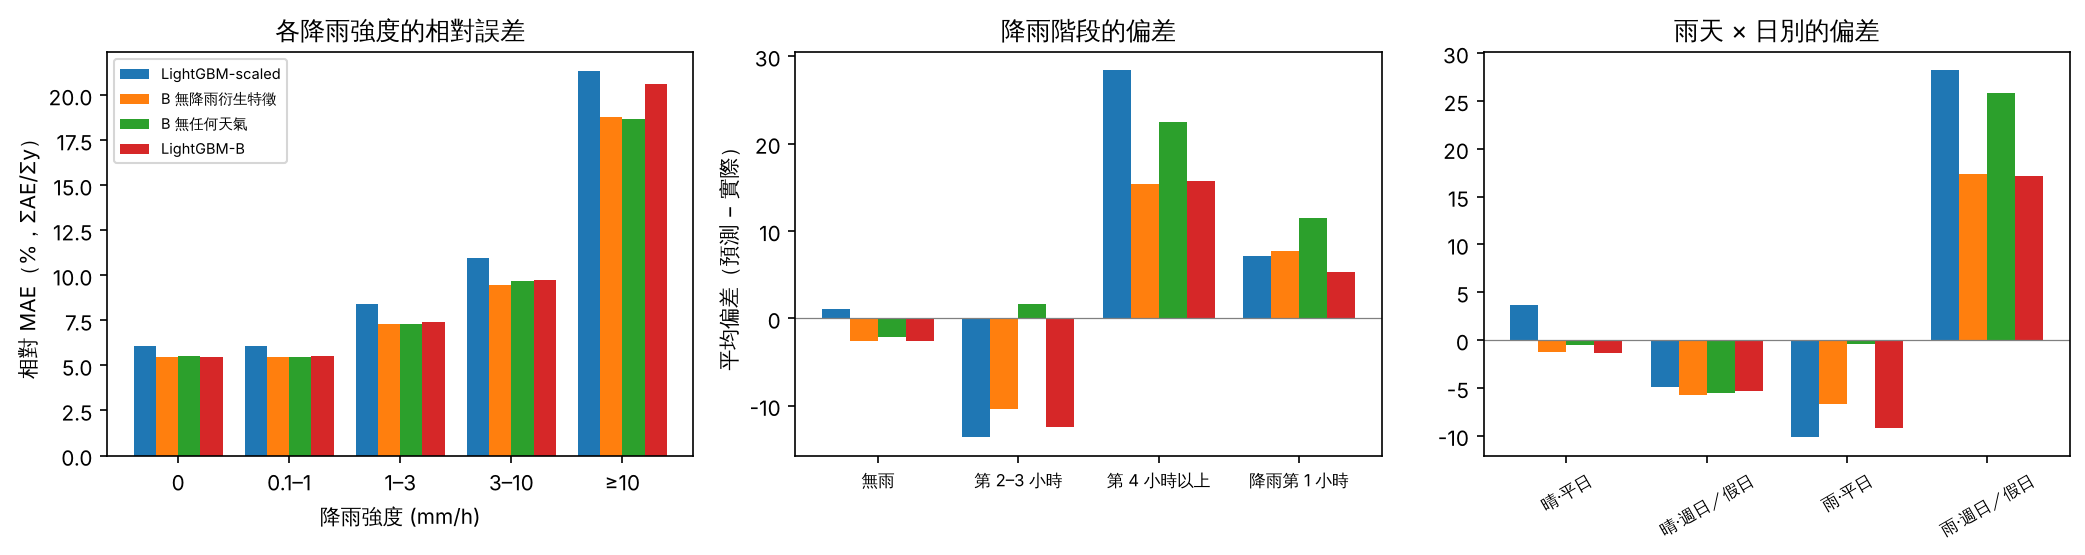
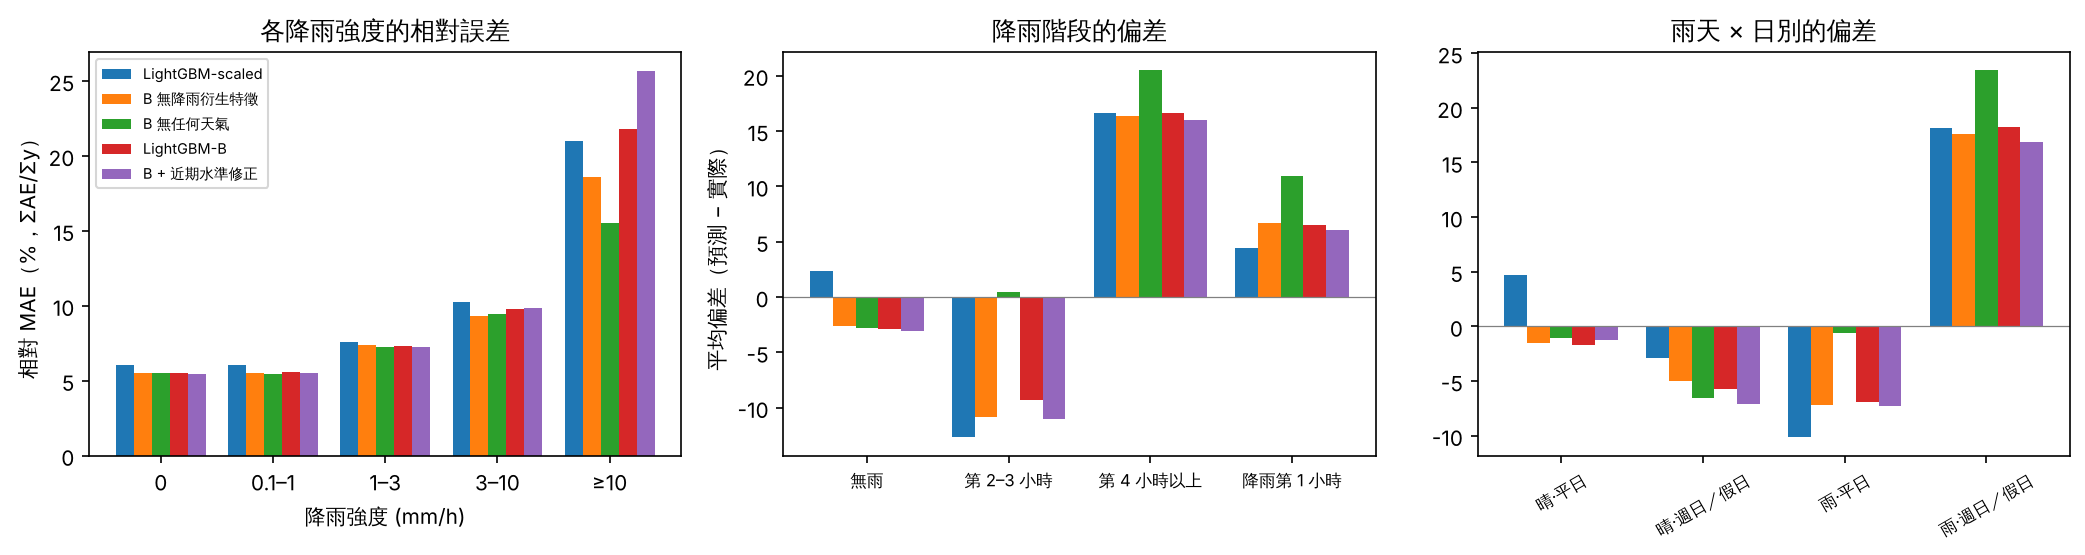
B: SHAP outputs and rain tables (interim, rerun pending)

diff --git a/results/reg_rain_tables.md b/results/reg_rain_tables.md
@@ -6,80 +6,80 @@
 
 ## 雨天 vs 無雨（2026-08~09）
 
-| rain | n | mean_y | MAE_LightGBM-scaled | bias_LightGBM-scaled | relMAE%_LightGBM-scaled | MAE_B 無降雨衍生特徵 | bias_B 無降雨衍生特徵 | relMAE%_B 無降雨衍生特徵 | MAE_B 無任何天氣 | bias_B 無任何天氣 | relMAE%_B 無任何天氣 | MAE_LightGBM-B | bias_LightGBM-B | relMAE%_LightGBM-B |
-|---|---|---|---|---|---|---|---|---|---|---|---|---|---|---|
-| False | 163602.00 | 712.21 | 43.26 | 1.02 | 6.07 | 38.78 | -2.64 | 5.44 | 39.00 | -2.09 | 5.48 | 39.11 | -2.58 | 5.49 |
-| True | 15006.00 | 811.38 | 72.10 | 9.19 | 8.89 | 62.58 | 5.43 | 7.71 | 62.91 | 12.81 | 7.75 | 63.94 | 4.13 | 7.88 |
+| rain | n | mean_y | MAE_LightGBM-scaled | bias_LightGBM-scaled | relMAE%_LightGBM-scaled | MAE_B 無降雨衍生特徵 | bias_B 無降雨衍生特徵 | relMAE%_B 無降雨衍生特徵 | MAE_B 無任何天氣 | bias_B 無任何天氣 | relMAE%_B 無任何天氣 | MAE_LightGBM-B | bias_LightGBM-B | relMAE%_LightGBM-B | MAE_B + 近期水準修正 | bias_B + 近期水準修正 | relMAE%_B + 近期水準修正 |
+|---|---|---|---|---|---|---|---|---|---|---|---|---|---|---|---|---|---|
+| False | 163602.00 | 712.21 | 42.90 | 2.35 | 6.02 | 39.13 | -2.64 | 5.49 | 38.86 | -2.76 | 5.46 | 39.37 | -2.93 | 5.53 | 38.80 | -3.08 | 5.45 |
+| True | 15006.00 | 811.38 | 66.10 | 4.13 | 8.15 | 62.77 | 5.31 | 7.74 | 62.04 | 11.53 | 7.65 | 63.57 | 5.79 | 7.83 | 63.38 | 4.91 | 7.81 |
 
 ## 雨天 vs 無雨（僅測試集 2026-09）
 
-| rain | n | mean_y | MAE_LightGBM-scaled | bias_LightGBM-scaled | relMAE%_LightGBM-scaled | MAE_B 無降雨衍生特徵 | bias_B 無降雨衍生特徵 | relMAE%_B 無降雨衍生特徵 | MAE_B 無任何天氣 | bias_B 無任何天氣 | relMAE%_B 無任何天氣 | MAE_LightGBM-B | bias_LightGBM-B | relMAE%_LightGBM-B |
-|---|---|---|---|---|---|---|---|---|---|---|---|---|---|---|
-| False | 83448.00 | 718.16 | 41.46 | 1.53 | 5.77 | 37.87 | -3.73 | 5.27 | 38.33 | -1.53 | 5.34 | 38.22 | -3.19 | 5.32 |
-| True | 4392.00 | 928.09 | 65.32 | 5.78 | 7.04 | 60.86 | -0.16 | 6.56 | 63.66 | 10.43 | 6.86 | 62.26 | -0.03 | 6.71 |
+| rain | n | mean_y | MAE_LightGBM-scaled | bias_LightGBM-scaled | relMAE%_LightGBM-scaled | MAE_B 無降雨衍生特徵 | bias_B 無降雨衍生特徵 | relMAE%_B 無降雨衍生特徵 | MAE_B 無任何天氣 | bias_B 無任何天氣 | relMAE%_B 無任何天氣 | MAE_LightGBM-B | bias_LightGBM-B | relMAE%_LightGBM-B | MAE_B + 近期水準修正 | bias_B + 近期水準修正 | relMAE%_B + 近期水準修正 |
+|---|---|---|---|---|---|---|---|---|---|---|---|---|---|---|---|---|---|
+| False | 83448.00 | 718.16 | 41.21 | 3.24 | 5.74 | 38.29 | -3.56 | 5.33 | 38.18 | -1.37 | 5.32 | 38.54 | -4.14 | 5.37 | 37.91 | -4.05 | 5.28 |
+| True | 4392.00 | 928.09 | 63.84 | -5.47 | 6.88 | 63.07 | 1.05 | 6.80 | 63.59 | 11.72 | 6.85 | 63.64 | -1.43 | 6.86 | 60.36 | -3.67 | 6.50 |
 
 ## 依降雨強度（mm/h）
 
-| intensity | n | mean_y | MAE_LightGBM-scaled | bias_LightGBM-scaled | relMAE%_LightGBM-scaled | MAE_B 無降雨衍生特徵 | bias_B 無降雨衍生特徵 | relMAE%_B 無降雨衍生特徵 | MAE_B 無任何天氣 | bias_B 無任何天氣 | relMAE%_B 無任何天氣 | MAE_LightGBM-B | bias_LightGBM-B | relMAE%_LightGBM-B |
-|---|---|---|---|---|---|---|---|---|---|---|---|---|---|---|
-| 0 | 116998.00 | 664.81 | 40.42 | 1.58 | 6.08 | 36.24 | -3.06 | 5.45 | 36.60 | -2.98 | 5.51 | 36.53 | -2.74 | 5.50 |
-| 0.1–1 | 48068.00 | 829.37 | 50.64 | -0.47 | 6.11 | 45.33 | -1.43 | 5.47 | 45.19 | 0.37 | 5.45 | 45.84 | -2.25 | 5.53 |
-| 1–3 | 9516.00 | 905.42 | 75.95 | 5.65 | 8.39 | 66.06 | 1.70 | 7.30 | 66.07 | 9.73 | 7.30 | 66.94 | 0.86 | 7.39 |
-| 3–10 | 3782.00 | 627.15 | 68.86 | 20.27 | 10.98 | 59.34 | 12.73 | 9.46 | 60.87 | 20.17 | 9.71 | 61.18 | 12.91 | 9.76 |
-| ≥10 | 244.00 | 242.71 | 51.80 | 49.53 | 21.34 | 45.60 | 44.35 | 18.79 | 45.31 | 44.46 | 18.67 | 50.10 | 49.63 | 20.64 |
+| intensity | n | mean_y | MAE_LightGBM-scaled | bias_LightGBM-scaled | relMAE%_LightGBM-scaled | MAE_B 無降雨衍生特徵 | bias_B 無降雨衍生特徵 | relMAE%_B 無降雨衍生特徵 | MAE_B 無任何天氣 | bias_B 無任何天氣 | relMAE%_B 無任何天氣 | MAE_LightGBM-B | bias_LightGBM-B | relMAE%_LightGBM-B | MAE_B + 近期水準修正 | bias_B + 近期水準修正 | relMAE%_B + 近期水準修正 |
+|---|---|---|---|---|---|---|---|---|---|---|---|---|---|---|---|---|---|
+| 0 | 116998.00 | 664.81 | 40.19 | 2.83 | 6.05 | 36.53 | -3.02 | 5.49 | 36.50 | -3.85 | 5.49 | 36.68 | -3.23 | 5.52 | 36.09 | -3.29 | 5.43 |
+| 0.1–1 | 48068.00 | 829.37 | 49.91 | 1.24 | 6.02 | 45.87 | -1.63 | 5.53 | 44.92 | 0.22 | 5.42 | 46.34 | -2.17 | 5.59 | 45.88 | -2.45 | 5.53 |
+| 1–3 | 9516.00 | 905.42 | 68.68 | -0.89 | 7.59 | 66.59 | 2.60 | 7.35 | 65.56 | 8.61 | 7.24 | 66.35 | 2.14 | 7.33 | 65.42 | 0.32 | 7.23 |
+| 3–10 | 3782.00 | 627.15 | 64.41 | 13.97 | 10.27 | 58.40 | 11.64 | 9.31 | 59.38 | 18.89 | 9.47 | 61.32 | 14.70 | 9.78 | 61.70 | 14.16 | 9.84 |
+| ≥10 | 244.00 | 242.71 | 50.87 | 50.06 | 20.96 | 45.07 | 44.36 | 18.57 | 37.60 | 29.24 | 15.49 | 52.92 | 52.33 | 21.80 | 62.30 | 62.16 | 25.67 |
 
 ## 依日別
 
-| rain | dtn | n | mean_y | MAE_LightGBM-scaled | bias_LightGBM-scaled | relMAE%_LightGBM-scaled | MAE_B 無降雨衍生特徵 | bias_B 無降雨衍生特徵 | relMAE%_B 無降雨衍生特徵 | MAE_B 無任何天氣 | bias_B 無任何天氣 | relMAE%_B 無任何天氣 | MAE_LightGBM-B | bias_LightGBM-B | relMAE%_LightGBM-B |
-|---|---|---|---|---|---|---|---|---|---|---|---|---|---|---|---|
-| False | 平日 | 112606.00 | 766.83 | 41.27 | 3.69 | 5.38 | 36.99 | -1.25 | 4.82 | 37.03 | -0.53 | 4.83 | 37.23 | -1.32 | 4.86 |
-| False | 週日／假日 | 50996.00 | 591.59 | 47.65 | -4.90 | 8.05 | 42.73 | -5.72 | 7.22 | 43.34 | -5.54 | 7.33 | 43.27 | -5.37 | 7.31 |
-| True | 平日 | 7442.00 | 962.92 | 73.63 | -10.15 | 7.65 | 67.34 | -6.71 | 6.99 | 65.70 | -0.39 | 6.82 | 69.22 | -9.15 | 7.19 |
-| True | 週日／假日 | 7564.00 | 662.29 | 70.59 | 28.23 | 10.66 | 57.89 | 17.38 | 8.74 | 60.16 | 25.80 | 9.08 | 58.74 | 17.20 | 8.87 |
+| rain | dtn | n | mean_y | MAE_LightGBM-scaled | bias_LightGBM-scaled | relMAE%_LightGBM-scaled | MAE_B 無降雨衍生特徵 | bias_B 無降雨衍生特徵 | relMAE%_B 無降雨衍生特徵 | MAE_B 無任何天氣 | bias_B 無任何天氣 | relMAE%_B 無任何天氣 | MAE_LightGBM-B | bias_LightGBM-B | relMAE%_LightGBM-B | MAE_B + 近期水準修正 | bias_B + 近期水準修正 | relMAE%_B + 近期水準修正 |
+|---|---|---|---|---|---|---|---|---|---|---|---|---|---|---|---|---|---|---|
+| False | 平日 | 112606.00 | 766.83 | 41.28 | 4.74 | 5.38 | 37.31 | -1.55 | 4.87 | 36.88 | -1.03 | 4.81 | 37.62 | -1.66 | 4.91 | 36.81 | -1.25 | 4.80 |
+| False | 週日／假日 | 50996.00 | 591.59 | 46.49 | -2.93 | 7.86 | 43.15 | -5.04 | 7.29 | 43.21 | -6.58 | 7.30 | 43.24 | -5.74 | 7.31 | 43.20 | -7.13 | 7.30 |
+| True | 平日 | 7442.00 | 962.92 | 72.03 | -10.14 | 7.48 | 67.56 | -7.16 | 7.02 | 65.34 | -0.58 | 6.79 | 68.33 | -6.89 | 7.10 | 67.58 | -7.28 | 7.02 |
+| True | 週日／假日 | 7564.00 | 662.29 | 60.27 | 18.16 | 9.10 | 58.06 | 17.58 | 8.77 | 58.80 | 23.45 | 8.88 | 58.88 | 18.26 | 8.89 | 59.25 | 16.91 | 8.95 |
 
 ## 依時段
 
-| rain | band | n | mean_y | MAE_LightGBM-scaled | bias_LightGBM-scaled | relMAE%_LightGBM-scaled | MAE_B 無降雨衍生特徵 | bias_B 無降雨衍生特徵 | relMAE%_B 無降雨衍生特徵 | MAE_B 無任何天氣 | bias_B 無任何天氣 | relMAE%_B 無任何天氣 | MAE_LightGBM-B | bias_LightGBM-B | relMAE%_LightGBM-B |
-|---|---|---|---|---|---|---|---|---|---|---|---|---|---|---|---|
-| False | 尖峰前後／假日同時段 | 35746.00 | 883.67 | 57.28 | 1.80 | 6.48 | 50.90 | -0.34 | 5.76 | 50.85 | 0.59 | 5.75 | 50.74 | -0.36 | 5.74 |
-| False | 平日尖峰 | 18666.00 | 1813.22 | 76.25 | -1.90 | 4.21 | 67.51 | -15.44 | 3.72 | 68.11 | -10.72 | 3.76 | 67.98 | -14.27 | 3.75 |
-| False | 晚間 | 27816.00 | 636.96 | 54.94 | 4.14 | 8.63 | 50.90 | -0.22 | 7.99 | 51.26 | 0.32 | 8.05 | 51.62 | -0.76 | 8.10 |
-| False | 深夜清晨 | 42822.00 | 16.28 | 4.14 | 1.45 | 25.45 | 3.62 | 0.81 | 22.26 | 3.59 | 0.96 | 22.08 | 3.65 | 0.85 | 22.39 |
-| False | 白天離峰 | 38552.00 | 847.44 | 49.30 | -1.03 | 5.82 | 43.94 | -4.16 | 5.18 | 44.40 | -5.54 | 5.24 | 44.73 | -4.10 | 5.28 |
-| True | 尖峰前後／假日同時段 | 3782.00 | 835.91 | 86.08 | 31.04 | 10.30 | 76.09 | 16.05 | 9.10 | 75.16 | 20.89 | 8.99 | 75.85 | 15.14 | 9.07 |
-| True | 平日尖峰 | 1342.00 | 1840.08 | 97.39 | -28.66 | 5.29 | 98.35 | -27.96 | 5.34 | 100.67 | -31.24 | 5.47 | 100.60 | -29.86 | 5.47 |
-| True | 晚間 | 1952.00 | 631.18 | 73.28 | 18.24 | 11.61 | 65.45 | 11.12 | 10.37 | 65.90 | 17.77 | 10.44 | 66.66 | 9.11 | 10.56 |
-| True | 深夜清晨 | 1830.00 | 11.77 | 5.14 | 2.99 | 43.69 | 4.60 | 3.15 | 39.12 | 5.13 | 4.12 | 43.63 | 4.66 | 3.48 | 39.63 |
-| True | 白天離峰 | 6100.00 | 867.42 | 77.57 | 2.95 | 8.94 | 62.81 | 5.06 | 7.24 | 63.39 | 18.51 | 7.31 | 65.41 | 3.38 | 7.54 |
+| rain | band | n | mean_y | MAE_LightGBM-scaled | bias_LightGBM-scaled | relMAE%_LightGBM-scaled | MAE_B 無降雨衍生特徵 | bias_B 無降雨衍生特徵 | relMAE%_B 無降雨衍生特徵 | MAE_B 無任何天氣 | bias_B 無任何天氣 | relMAE%_B 無任何天氣 | MAE_LightGBM-B | bias_LightGBM-B | relMAE%_LightGBM-B | MAE_B + 近期水準修正 | bias_B + 近期水準修正 | relMAE%_B + 近期水準修正 |
+|---|---|---|---|---|---|---|---|---|---|---|---|---|---|---|---|---|---|---|
+| False | 尖峰前後／假日同時段 | 35746.00 | 883.67 | 58.08 | 5.44 | 6.57 | 50.89 | -0.20 | 5.76 | 50.85 | -0.53 | 5.75 | 51.18 | -0.99 | 5.79 | 50.64 | -1.45 | 5.73 |
+| False | 平日尖峰 | 18666.00 | 1813.22 | 76.01 | 3.05 | 4.19 | 68.93 | -16.16 | 3.80 | 68.49 | -12.72 | 3.78 | 69.57 | -15.90 | 3.84 | 67.12 | -13.15 | 3.70 |
+| False | 晚間 | 27816.00 | 636.96 | 53.82 | 3.89 | 8.45 | 51.30 | -0.27 | 8.05 | 50.57 | -0.52 | 7.94 | 51.32 | -0.02 | 8.06 | 50.56 | -0.82 | 7.94 |
+| False | 深夜清晨 | 42822.00 | 16.28 | 4.24 | 1.08 | 26.02 | 3.55 | 0.75 | 21.83 | 3.57 | 0.68 | 21.93 | 3.52 | 0.67 | 21.62 | 3.81 | 0.67 | 23.37 |
+| False | 白天離峰 | 38552.00 | 847.44 | 47.88 | -0.54 | 5.65 | 44.55 | -3.82 | 5.26 | 44.13 | -5.46 | 5.21 | 45.00 | -4.55 | 5.31 | 44.49 | -5.53 | 5.25 |
+| True | 尖峰前後／假日同時段 | 3782.00 | 835.91 | 80.87 | 19.82 | 9.67 | 73.98 | 14.74 | 8.85 | 73.36 | 18.68 | 8.78 | 76.75 | 16.73 | 9.18 | 76.30 | 16.51 | 9.13 |
+| True | 平日尖峰 | 1342.00 | 1840.08 | 97.63 | -35.28 | 5.31 | 101.65 | -26.96 | 5.52 | 97.97 | -31.57 | 5.32 | 97.78 | -30.30 | 5.31 | 97.71 | -27.64 | 5.31 |
+| True | 晚間 | 1952.00 | 631.18 | 69.78 | 9.34 | 11.06 | 66.56 | 13.58 | 10.54 | 65.88 | 17.75 | 10.44 | 67.36 | 8.64 | 10.67 | 66.88 | 9.06 | 10.60 |
+| True | 深夜清晨 | 1830.00 | 11.77 | 4.95 | 2.80 | 42.05 | 4.38 | 3.02 | 37.20 | 4.69 | 3.54 | 39.83 | 4.77 | 3.35 | 40.51 | 5.94 | 4.96 | 50.51 |
+| True | 白天離峰 | 6100.00 | 867.42 | 67.18 | 1.80 | 7.74 | 63.57 | 4.61 | 7.33 | 63.10 | 16.99 | 7.27 | 64.29 | 6.76 | 7.41 | 63.93 | 3.54 | 7.37 |
 
 ## 依降雨階段（雨開始第幾小時）
 
-| phase | n | mean_y | MAE_LightGBM-scaled | bias_LightGBM-scaled | relMAE%_LightGBM-scaled | MAE_B 無降雨衍生特徵 | bias_B 無降雨衍生特徵 | relMAE%_B 無降雨衍生特徵 | MAE_B 無任何天氣 | bias_B 無任何天氣 | relMAE%_B 無任何天氣 | MAE_LightGBM-B | bias_LightGBM-B | relMAE%_LightGBM-B |
-|---|---|---|---|---|---|---|---|---|---|---|---|---|---|---|
-| 無雨 | 163602.00 | 712.21 | 43.26 | 1.02 | 6.07 | 38.78 | -2.64 | 5.44 | 39.00 | -2.09 | 5.48 | 39.11 | -2.58 | 5.49 |
-| 第 2–3 小時 | 4270.00 | 838.76 | 65.48 | -13.60 | 7.81 | 57.51 | -10.40 | 6.86 | 56.04 | 1.62 | 6.68 | 58.49 | -12.40 | 6.97 |
-| 第 4 小時以上 | 5612.00 | 740.19 | 82.92 | 28.42 | 11.20 | 68.48 | 15.43 | 9.25 | 68.62 | 22.52 | 9.27 | 71.20 | 15.67 | 9.62 |
-| 降雨第 1 小時 | 5124.00 | 866.55 | 65.76 | 7.14 | 7.59 | 60.33 | 7.68 | 6.96 | 62.38 | 11.50 | 7.20 | 60.53 | 5.26 | 6.99 |
+| phase | n | mean_y | MAE_LightGBM-scaled | bias_LightGBM-scaled | relMAE%_LightGBM-scaled | MAE_B 無降雨衍生特徵 | bias_B 無降雨衍生特徵 | relMAE%_B 無降雨衍生特徵 | MAE_B 無任何天氣 | bias_B 無任何天氣 | relMAE%_B 無任何天氣 | MAE_LightGBM-B | bias_LightGBM-B | relMAE%_LightGBM-B | MAE_B + 近期水準修正 | bias_B + 近期水準修正 | relMAE%_B + 近期水準修正 |
+|---|---|---|---|---|---|---|---|---|---|---|---|---|---|---|---|---|---|
+| 無雨 | 163602.00 | 712.21 | 42.90 | 2.35 | 6.02 | 39.13 | -2.64 | 5.49 | 38.86 | -2.76 | 5.46 | 39.37 | -2.93 | 5.53 | 38.80 | -3.08 | 5.45 |
+| 第 2–3 小時 | 4270.00 | 838.76 | 59.67 | -12.66 | 7.11 | 57.64 | -10.85 | 6.87 | 55.71 | 0.46 | 6.64 | 57.00 | -9.29 | 6.80 | 56.58 | -11.05 | 6.75 |
+| 第 4 小時以上 | 5612.00 | 740.19 | 72.07 | 16.63 | 9.74 | 68.25 | 16.37 | 9.22 | 67.45 | 20.50 | 9.11 | 70.62 | 16.59 | 9.54 | 70.95 | 16.00 | 9.59 |
+| 降雨第 1 小時 | 5124.00 | 866.55 | 64.92 | 4.43 | 7.49 | 61.04 | 6.67 | 7.04 | 61.41 | 10.94 | 7.09 | 61.31 | 6.53 | 7.08 | 60.76 | 6.07 | 7.01 |
 
 ## 雨天額外誤差最大的 15 站（LightGBM-B）
 
 | station | n_rain | mean_y_rain | mean_y_dry | MAE_LightGBM-B_rain | MAE_LightGBM-B_dry | rain_dry_ratio | bias_LightGBM-B_rain |
 |---|---|---|---|---|---|---|---|
-| 南港展覽館 | 123.00 | 2374.14 | 1404.86 | 411.89 | 111.98 | 3.68 | -146.54 |
-| 台北車站 | 123.00 | 7994.10 | 6309.23 | 392.67 | 222.63 | 1.76 | 40.77 |
-| 台北101/世貿 | 123.00 | 1866.88 | 1358.12 | 168.25 | 91.70 | 1.83 | -48.53 |
-| 圓山 | 123.00 | 1259.49 | 1084.49 | 148.41 | 72.34 | 2.05 | 11.76 |
-| 西門 | 123.00 | 3497.16 | 2761.14 | 183.25 | 110.04 | 1.67 | 9.53 |
-| 中山 | 123.00 | 2871.80 | 2131.26 | 153.49 | 80.47 | 1.91 | 16.55 |
-| 市政府 | 123.00 | 3219.28 | 2476.10 | 175.30 | 108.30 | 1.62 | 26.10 |
-| 台北小巨蛋 | 123.00 | 1020.94 | 868.32 | 157.92 | 91.41 | 1.73 | 20.32 |
-| 忠孝復興 | 123.00 | 2464.74 | 1790.27 | 117.99 | 63.72 | 1.85 | 23.86 |
-| 中正紀念堂 | 123.00 | 1354.27 | 1041.43 | 132.59 | 79.59 | 1.67 | 19.20 |
-| 南港 | 123.00 | 1325.09 | 1031.29 | 123.30 | 70.43 | 1.75 | -22.28 |
-| 劍潭 | 123.00 | 1170.87 | 1052.07 | 125.52 | 75.33 | 1.67 | -18.40 |
-| 大安 | 123.00 | 1091.27 | 906.55 | 102.39 | 55.43 | 1.85 | 31.10 |
-| 忠孝新生 | 123.00 | 1870.04 | 1444.16 | 113.95 | 67.21 | 1.70 | 14.98 |
-| 忠孝敦化 | 123.00 | 1590.33 | 1245.92 | 93.14 | 47.25 | 1.97 | 6.80 |
+| 南港展覽館 | 123.00 | 2374.14 | 1404.86 | 414.87 | 115.46 | 3.59 | -107.12 |
+| 台北車站 | 123.00 | 7994.10 | 6309.23 | 377.67 | 224.22 | 1.68 | 22.01 |
+| 西門 | 123.00 | 3497.16 | 2761.14 | 184.39 | 107.84 | 1.71 | 19.50 |
+| 圓山 | 123.00 | 1259.49 | 1084.49 | 143.83 | 75.20 | 1.91 | 10.41 |
+| 中山 | 123.00 | 2871.80 | 2131.26 | 148.43 | 80.15 | 1.85 | 25.41 |
+| 市政府 | 123.00 | 3219.28 | 2476.10 | 181.44 | 113.53 | 1.60 | 21.04 |
+| 台北101/世貿 | 123.00 | 1866.88 | 1358.12 | 160.45 | 92.75 | 1.73 | -30.21 |
+| 國父紀念館 | 123.00 | 1857.97 | 1446.57 | 260.41 | 202.89 | 1.28 | -65.49 |
+| 劍潭 | 123.00 | 1170.87 | 1052.07 | 133.89 | 76.98 | 1.74 | -17.31 |
+| 台北小巨蛋 | 123.00 | 1020.94 | 868.32 | 147.10 | 91.18 | 1.61 | 27.11 |
+| 中正紀念堂 | 123.00 | 1354.27 | 1041.43 | 134.87 | 80.30 | 1.68 | 19.78 |
+| 大安 | 123.00 | 1091.27 | 906.55 | 110.43 | 56.04 | 1.97 | 39.54 |
+| 南港 | 123.00 | 1325.09 | 1031.29 | 119.20 | 72.82 | 1.64 | -21.66 |
+| 民權西路 | 123.00 | 1093.64 | 941.25 | 92.13 | 46.05 | 2.00 | 14.12 |
+| 海山 | 123.00 | 802.36 | 943.61 | 90.24 | 44.81 | 2.01 | 24.46 |
 
 ## 組成效應：雨天小時的時段分布
 
@@ -92,6 +92,6 @@
 
 | 指標 | LightGBM-B |
 |---|---|
-| 雨天 MAE | 63.94 |
-| 無雨 MAE（全部） | 39.11 |
-| 無雨 MAE（以雨天的站×時×日別組成加權） | 50.35 |
+| 雨天 MAE | 63.57 |
+| 無雨 MAE（全部） | 39.37 |
+| 無雨 MAE（以雨天的站×時×日別組成加權） | 50.50 |
